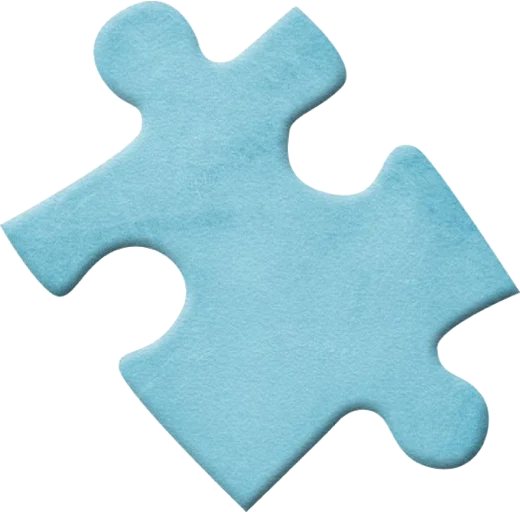
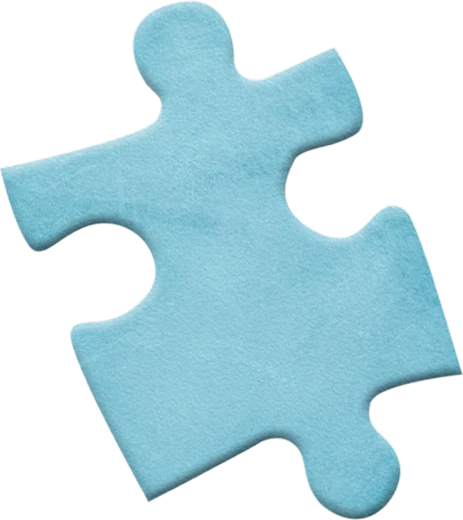
Footer collage: supplied overlays placed to the reference proportions

Changed region(s): [[0.0, 0.0, 1.0, 1.0]]

diff --git a/style.css b/style.css
@@ -706,32 +706,31 @@ body.on-paper .bar--top { --fg: var(--ink, #151515); color: #151515; }
 @media (hover: hover) and (pointer: fine) { .contact__face:hover .contact__face-alt { opacity: 1; } }
 .contact__face.is-alt .contact__face-alt { opacity: 1; }
 
+/* ── the collage, matched to the reference: every left/top/width is a % of the face box ── */
 /* sheets behind the face: two pale blue pages and a printed sketch sheet */
 .paper { position: absolute; z-index: 0; box-shadow: 0 10px 22px rgba(40, 40, 60, .16); }
-.paper--blue1 { left: -32%; top: 8%; width: 96%; height: 96%; rotate: -7deg; background: linear-gradient(165deg, #e3ecf8, #c3d5ec); }
-.paper--blue2 { left: -4%; top: 36%; width: 110%; height: 84%; rotate: 5deg; background: linear-gradient(200deg, #d8e5f5, #b6cbe7); }
-.paper--sheet {
-  left: -20%; top: 26%; width: 84%; height: 86%; rotate: -24deg;
-  background:
-    linear-gradient(#2a2a2a, #2a2a2a) 8% 14% / 84% 1.5px no-repeat,
-    repeating-linear-gradient(0deg, rgba(30, 30, 30, .32) 0 1px, transparent 1px 7.2%) 8% 22% / 84% 70% no-repeat,
-    repeating-linear-gradient(90deg, rgba(30, 30, 30, .32) 0 1px, transparent 1px 12%) 8% 22% / 84% 70% no-repeat,
-    #f7f4ec;
+.paper--blue1 {
+  left: -21%; top: 5%; width: 80%; height: 66%; rotate: -12deg;
+  background: linear-gradient(0deg, #9dbbe2 0 3.5%, transparent 3.5%), linear-gradient(165deg, #edf3fa, #cddcf0);
 }
-.paper--sheet i {
-  position: absolute; left: 8%; top: 6%; font-style: normal;
-  font-family: var(--mono); font-size: clamp(5px, .5vw, 9px); letter-spacing: .14em; text-transform: uppercase; color: #333;
+.paper--blue2 { left: 46.5%; top: 49%; width: 58%; height: 43%; rotate: -22deg; background: linear-gradient(200deg, #dbe7f6, #bed2ec); }
+.paper--sheet {   /* the supplied sheet, clip and silver star; fitted to the reference by the clip's ring and the star */
+  left: -15.1%; top: 21%; width: 106%; height: auto; box-shadow: none;
+  filter: drop-shadow(0 10px 18px rgba(40, 40, 60, .18));
 }
+.paper--sheet i { left: 9%; top: 3%; }
+.paper--sheet em { left: 2%; top: 60%; transform-origin: 0 0; rotate: 90deg; font-size: 1.7cqw; }
 
-/* cutouts: placed in % of the face box; each rides the pointer at its own depth (--d), lands
-   with a pop as the envelope empties (--s from main.js) and pops again when hovered */
+/* cutouts: each rides the pointer at its own depth (--d), lands with a pop as the envelope
+   empties (--s from main.js) and pops again when hovered */
+.contact__face { container-type: inline-size; }
 .contact__face .el {
   position: absolute; z-index: 3; display: block;
   left: var(--x); top: var(--y); width: var(--w);
   rotate: var(--r, 0deg);
   translate: calc(var(--mx) * var(--d) * 1px) calc(var(--my) * var(--d) * .8px);
   transform: scale(var(--s, 1)); opacity: min(1, calc(var(--s, 1) * 3));
-  filter: drop-shadow(0 8px 12px rgba(40, 30, 20, .32));
+  filter: drop-shadow(0 8px 12px rgba(40, 30, 20, .3));
   transition: translate .9s var(--ease-out), scale .45s var(--ease-expo), rotate .45s var(--ease-expo);
 }
 .contact__face .el img, .contact__face .el svg { display: block; width: 100%; height: auto; user-select: none; -webkit-user-drag: none; }
@@ -739,36 +738,22 @@ body.on-paper .bar--top { --fg: var(--ink, #151515); color: #151515; }
   .contact__face .el:hover { scale: 1.1; rotate: calc(var(--r, 0deg) + 7deg); }
   .contact__face .el:nth-of-type(even):hover { rotate: calc(var(--r, 0deg) - 8deg); }
 }
-.el--clip   { --x: -24%; --y: 20%; --w: 22%; --r: -32deg; z-index: 1 !important; }
-.el--burst  { --x: 64%;  --y: -6%; --w: 62%; --r: 8deg; z-index: 1 !important; }
-.contact__face .el--burst {   /* the yellow burst, recast in red: its shape as a mask, its texture multiplied in */
-  background: #e3261b;
-  -webkit-mask: url("assets/collage/burst.webp") 0 0 / 100% 100% no-repeat;
-          mask: url("assets/collage/burst.webp") 0 0 / 100% 100% no-repeat;
+.el--burst   { --x: 64.5%;  --y: -2.1%; --w: 60.8%; --r: -6deg; z-index: 1 !important; }
+.el--swirl   { --x: -21.2%; --y: 38.8%; --w: 18.9%; z-index: 1 !important; }
+.contact__face .el--swirl { filter: none; height: auto; }
+.contact__face .el--script {
+  --x: 108%; --y: 51%; width: auto; z-index: 1; filter: none;
+  font-family: "Mrs Saint Delafield", cursive; font-size: 15cqw; line-height: 1; color: #e3261b; white-space: nowrap;
 }
-.contact__face .el--burst img { filter: grayscale(1) brightness(1.2) contrast(1.5); mix-blend-mode: multiply; }
-.el--puzzle { --x: 12%;  --y: 13%; --w: 24%; --r: -12deg; }
-.el--mouth  { --x: 27%;  --y: 62%; --w: 46%; --r: 2deg; }
-.el--star1  { --x: 72%;  --y: 30%; --w: 17%; --r: 10deg; }
-.el--star2  { --x: 86%;  --y: 50%; --w: 15%; --r: -12deg; }
-.el--star3  { --x: -2%;  --y: 84%; --w: 16%; --r: 16deg; }
-.el--silver { --x: -18%; --y: 50%; --w: 14%; --r: -8deg; }
-.contact__face .el--silver img { filter: grayscale(1) brightness(1.45) contrast(1.15); }
-.el--arrow  { --x: 84%;  --y: 96%; --w: 15%; --r: -6deg; }
+.el--puzzle  { --x: 14.6%;  --y: 7.7%;  --w: 17.2%; }
+.el--bandaid { --x: 20.2%;  --y: 28.9%; --w: 22.2%; }
+.el--mouth   { --x: 34.1%;  --y: 67.5%; --w: 32.9%; }
+.el--star1   { --x: 77.9%;  --y: 32.3%; --w: 15.5%; --r: -4deg; }
+.el--star2   { --x: 87.3%;  --y: 45.5%; --w: 15.8%; --r: 10deg; }
+.el--star3   { --x: 7.4%;   --y: 71.4%; --w: 12.6%; --r: -6deg; }
+.el--arrow   { --x: 79.4%;  --y: 85.5%; --w: 15.5%; }
 .el--arrow img { image-rendering: pixelated; }
-/* the left eye, cut from the photo itself and printed black on yellow */
-.contact__face .el--eye {
-  --x: calc(var(--fl) * 1%); --y: calc(var(--ft) * 1%); --w: calc(var(--fw) * 1%);
-  height: calc(var(--fh) * 1%); overflow: hidden;
-  clip-path: ellipse(50% 47% at 50% 50%);
-  filter: none;
-}
-.contact__face .el--eye img {
-  position: absolute; max-width: none;
-  width: calc(100% * 100 / var(--fw)); height: calc(100% * 100 / var(--fh));
-  left: calc(-100% * var(--fl) / var(--fw)); top: calc(-100% * var(--ft) / var(--fh));
-  filter: url(#eye-duo);
-}
+.el--eye     { --x: 12.2%;  --y: 45.2%; --w: 31.6%; }
 
 /* if the face fails to load, fall back to the dotted silhouette alone */
 .contact__face-ph { display: none; }

diff --git a/index.html b/index.html
@@ -364,20 +364,22 @@
              the envelope drops away and the stickers land (all driven by scroll, main.js) -->
         <div class="env env__back"></div>
         <div class="letter">
+          <!-- placed to match the reference collage: every position and size is a % of the face box -->
           <span class="paper paper--blue1"></span>
           <span class="paper paper--blue2"></span>
-          <span class="paper paper--sheet"><i>Trades sketching · No. 27</i></span>
-          <span class="el el--clip" style="--d:14;--at:0"><svg viewBox="0 0 100 74"><defs><linearGradient id="clipg" x1="0" x2="0" y1="0" y2="1"><stop offset="0" stop-color="#f6f7f9" /><stop offset=".45" stop-color="#b3b7bf" /><stop offset=".7" stop-color="#e8eaee" /><stop offset="1" stop-color="#8d929b" /></linearGradient></defs><path d="M30 34V10a8 8 0 0 1 16 0v24M54 34V10a8 8 0 0 1 16 0v24" fill="none" stroke="#c4c8ce" stroke-width="4" stroke-linecap="round" /><path d="M14 34h72l8 30a6 6 0 0 1-6 8H12a6 6 0 0 1-6-8z" fill="url(#clipg)" stroke="#7d828b" stroke-width="1.5" /><path d="M16 40h68" stroke="#fff" stroke-opacity=".7" stroke-width="2" /></svg></span>
+          <img class="paper paper--sheet" src="assets/collage/sheet.webp" alt="" draggable="false" />
           <span class="el el--burst" style="--d:-12;--at:0"><img src="assets/collage/burst.webp" alt="" draggable="false" /></span>
+          <svg class="el el--swirl" style="--d:10;--at:8" viewBox="0 0 195 110" fill="none"><path d="M2 28C38 4 140-6 182 40c10 12 4 38-20 64" stroke="#e3261b" stroke-width="4.5" stroke-linecap="round" /></svg>
+          <span class="el el--script" style="--d:16;--at:8">hello</span>
           <img class="contact__face-base" src="assets/face.webp" alt="" width="380" height="480" onerror="this.closest('.contact__face').classList.add('is-missing')" />
           <img class="contact__face-alt" src="assets/face-hover.webp" alt="" width="380" height="480" />
-          <span class="el el--eye" style="--d:22;--at:1;--fl:13;--ft:41;--fw:36;--fh:15"><img src="assets/face.webp" alt="" draggable="false" /></span>
-          <span class="el el--puzzle" style="--d:26;--at:2"><img src="assets/collage/puzzle.webp" alt="" draggable="false" /></span>
-          <span class="el el--mouth" style="--d:30;--at:3"><img src="assets/collage/mouth.webp" alt="" draggable="false" /></span>
-          <span class="el el--star1" style="--d:34;--at:4"><img src="assets/collage/star.webp" alt="" draggable="false" /></span>
-          <span class="el el--star2" style="--d:20;--at:5"><img src="assets/collage/star.webp" alt="" draggable="false" /></span>
+          <span class="el el--puzzle" style="--d:26;--at:1"><img src="assets/collage/puzzle.webp" alt="" draggable="false" /></span>
+          <span class="el el--bandaid" style="--d:20;--at:2"><img src="assets/collage/bandaid.webp" alt="" draggable="false" /></span>
+          <span class="el el--eye" style="--d:22;--at:3"><img src="assets/collage/eye.webp" alt="" draggable="false" /></span>
+          <span class="el el--mouth" style="--d:30;--at:4"><img src="assets/collage/mouth.webp" alt="" draggable="false" /></span>
+          <span class="el el--star1" style="--d:34;--at:5"><img src="assets/collage/star.webp" alt="" draggable="false" /></span>
+          <span class="el el--star2" style="--d:20;--at:6"><img src="assets/collage/star.webp" alt="" draggable="false" /></span>
           <span class="el el--star3" style="--d:28;--at:6"><img src="assets/collage/star.webp" alt="" draggable="false" /></span>
-          <span class="el el--silver" style="--d:18;--at:6"><img src="assets/collage/star.webp" alt="" draggable="false" /></span>
           <span class="el el--arrow" style="--d:40;--at:7"><img src="assets/collage/arrow.png" alt="" draggable="false" /></span>
           <div class="contact__face-ph"></div>
         </div>

diff --git a/main.js b/main.js
@@ -315,7 +315,7 @@ const fluid = startFooterPaper({ host: contact.querySelector('.contact__bg'), ev
        .50  – .68  the flap swings open
        .60  – .86  the letter rises out of the pocket
        .78  – .95  the envelope drops away, the letter settles to full size
-       .84  – 1    the stickers land, one after another */
+       .80  – 1    the stickers land, one after another */
   const face = contact.querySelector('.contact__face');
   const letter = face.querySelector('.letter');
   const stickers = [...face.querySelectorAll('.el')].map((el) => ({ el, at: +getComputedStyle(el).getPropertyValue('--at') || 0 }));
@@ -335,7 +335,7 @@ const fluid = startFooterPaper({ host: contact.querySelector('.contact__bg'), ev
     letter.style.setProperty('--ly', `${ly.toFixed(2)}%`);
     letter.style.setProperty('--ls', ls.toFixed(4));
     for (const { el, at } of stickers) {
-      el.style.setProperty('--s', at === 0 ? 1 : back(span(p, 0.84 + (at - 1) * 0.022, 0.9 + (at - 1) * 0.022)).toFixed(4));
+      el.style.setProperty('--s', at === 0 ? 1 : back(span(p, 0.8 + (at - 1) * 0.02, 0.86 + (at - 1) * 0.02)).toFixed(4));
     }
   }
   const update = () => {
